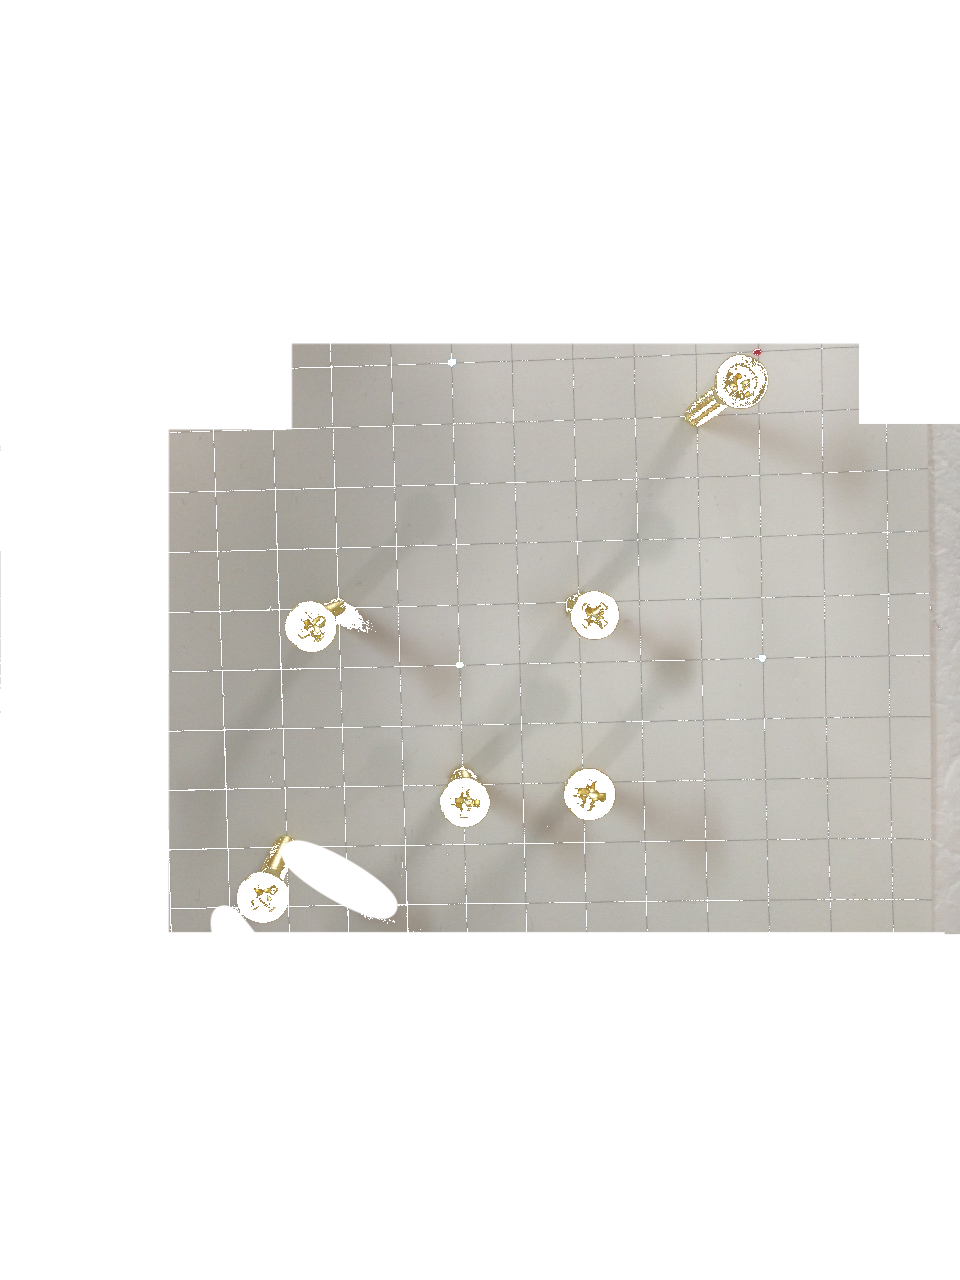
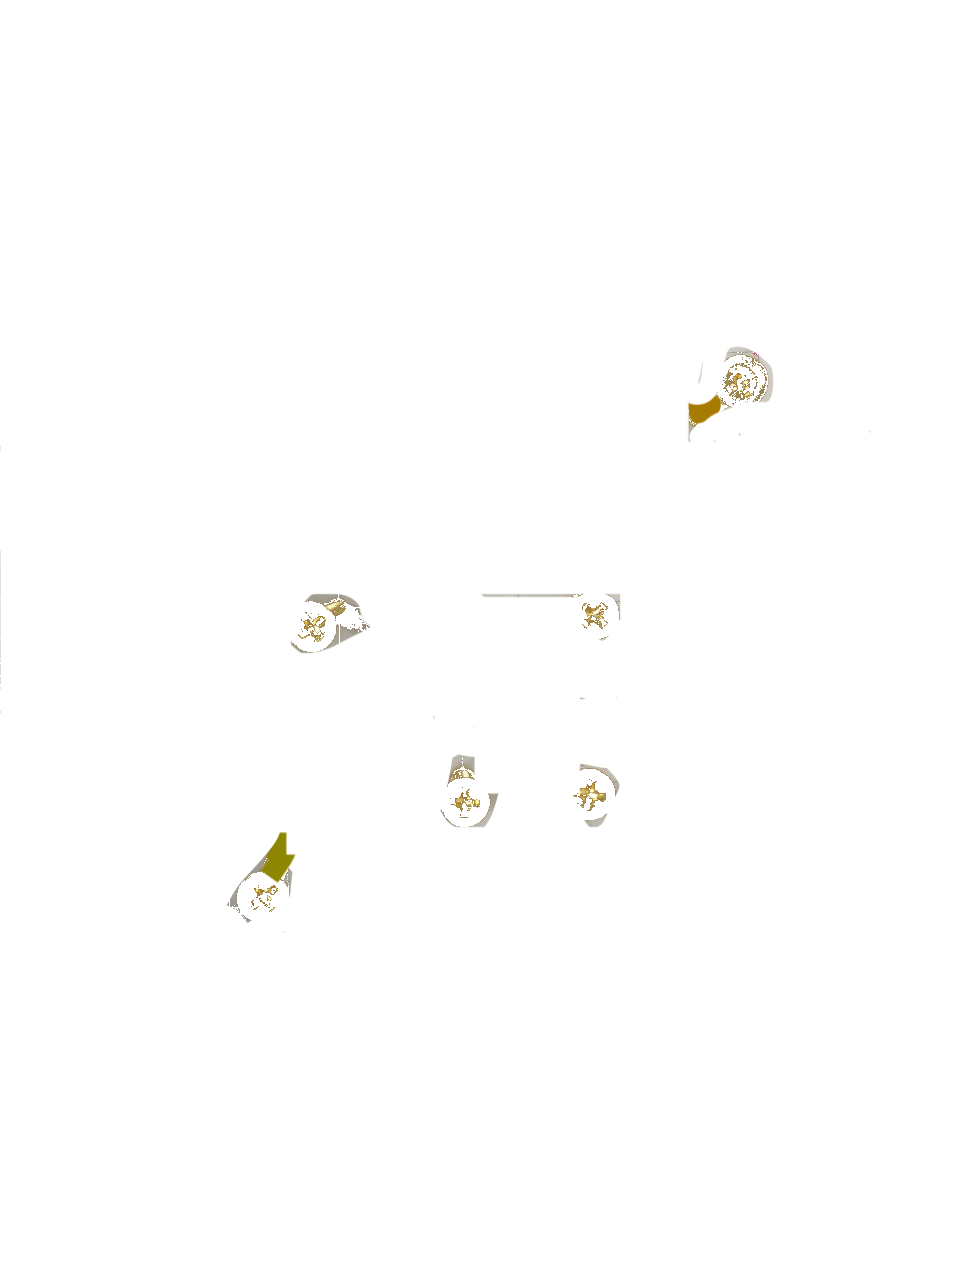
tuning is done

diff --git a/Graduate/mapping.py b/Graduate/mapping.py
@@ -21,6 +21,7 @@ import Show_3D_add as ADD
 import Show_3D_color as Show_COLOR
 import Hireso_projection as Hi_PROJECTION
 import Gaussian_blur as FILTER
+import Slide as SLIDE
 #合成空間のサイズを指定
 x_range = 100
 y_range = 100
@@ -34,6 +35,7 @@ z_range = 100
 #slideは1だと縦方向(負の値だと上に動く)
 map_front = Hi_PROJECTION.make_3D_array(y_range,x_range,z_range)
 Hi_PROJECTION.fill_3D_array_slide('IMG_0117_result.png',map_front,0,150,2,4,1,0)
+map_front = SLIDE.slide(map_front,-1,1)
 
 #Hi_PROJECTION.fill_3D_array_slide('IMG_0101_result.png',map_side,thresh,dist,mode,slide_dist,slide_mode,deg)
 #slideは1だと横方向(plot的に)
@@ -41,6 +43,7 @@ Hi_PROJECTION.fill_3D_array_slide('IMG_0117_result.png',map_front,0,150,2,4,1,0)
 #横作成
 map_side = Hi_PROJECTION.make_3D_array(y_range,z_range,x_range)
 Hi_PROJECTION.fill_3D_array_slide('IMG_0118_result.png',map_side,0,120,2,-5,1,0)
+map_side = SLIDE.slide(map_side,3,1)
 map_side = np.flip(map_side.transpose(0,2,1),1)
 
 
@@ -49,11 +52,15 @@ map_side = np.flip(map_side.transpose(0,2,1),1)
 #0で上下(負の値で下)
 #1で左右(負の値で右)
 map_upper = Hi_PROJECTION.make_3D_array(z_range,x_range,y_range)
-Hi_PROJECTION.fill_3D_array_slide('IMG_0114_result.png',map_upper,0,180,2,0,1,355)
+Hi_PROJECTION.fill_3D_array_slide('IMG_0114_result.png',map_upper,0,178,2,0,1,355)
+#ここでずれの調節
+map_upper = SLIDE.slide(map_upper,3,1)
+map_upper = SLIDE.slide(map_upper,-8,0)
 map_upper = np.flip(np.flip(np.flip(map_upper,2).transpose(2,0,1),0),2)
 #map_upper = map_upper.transpose(0,2,1)
 #map_upper = np.flip(map_upper,2)
 map_upper = np.flip(map_upper,1)
+
 
 
 
@@ -69,7 +76,7 @@ map_check_upper = map_front_side+map_upper
 print('x=',map_true.shape[1],' y=',map_true.shape[0], ' z=',map_true.shape[2])
 
 map_true_filtered = FILTER.Gaussian_blur_3D(map_true,3,0.3)
-#Show_COLOR.show_3D_color(map_true_filtered,'pink',1)
+Show_COLOR.show_3D_color(map_true_filtered,'pink',1)
 #Show_COLOR.show_3D_color(map_front,'pink',1)
 #Show_COLOR.show_3D_color(map_side,'pink',1)
 #Show_COLOR.show_3D_color(map_upper,'pink',1)

diff --git a/Graduate/Slide.py b/Graduate/Slide.py
@@ -1,0 +1,31 @@
+#計算用モジュール
+import numpy as np
+
+#画像処理モジュール
+import cv2
+import math
+
+import sys
+#ファイルのパス名を利用するモジュール
+import glob
+
+import matplotlib.pyplot as plt
+import seaborn as sns
+from mpl_toolkits.mplot3d import Axes3D
+import matplotlib.colors as colors
+
+#自作モジュール
+import check as CHECK
+import Projection as PROJECTION
+import Show_3D_add as ADD
+import Show_3D_color as Show_COLOR
+import Hireso_projection as Hi_PROJECTION
+
+
+def slide(map,dist,axis):
+    map_ret = Hi_PROJECTION.make_3D_array(map.shape[1],map.shape[0],map.shape[2])
+    for i in range(map.shape[2]):
+        depth_image_refine = map[:,:,i]
+        depth_image_shifted = np.roll(depth_image_refine,dist,axis=axis)
+        map_ret[:,:,i] = depth_image_shifted
+    return map_ret
